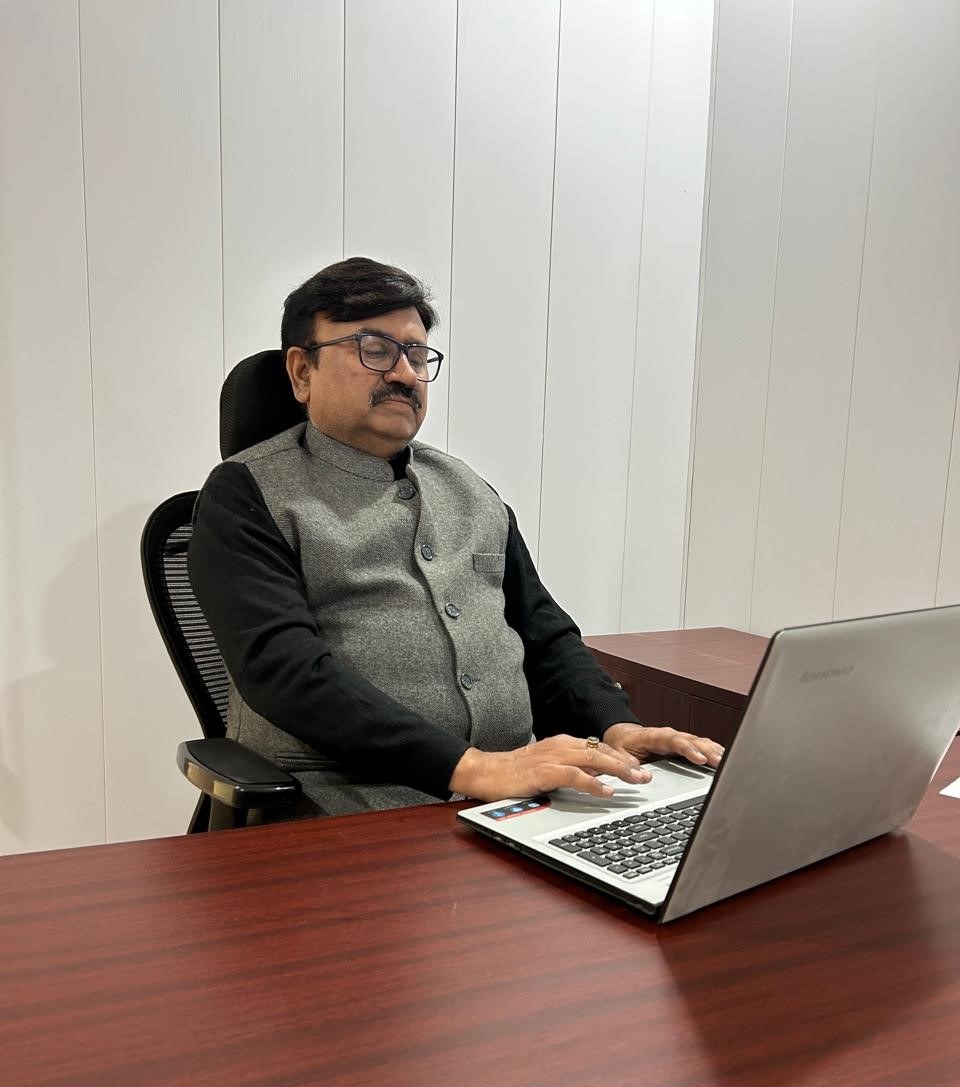
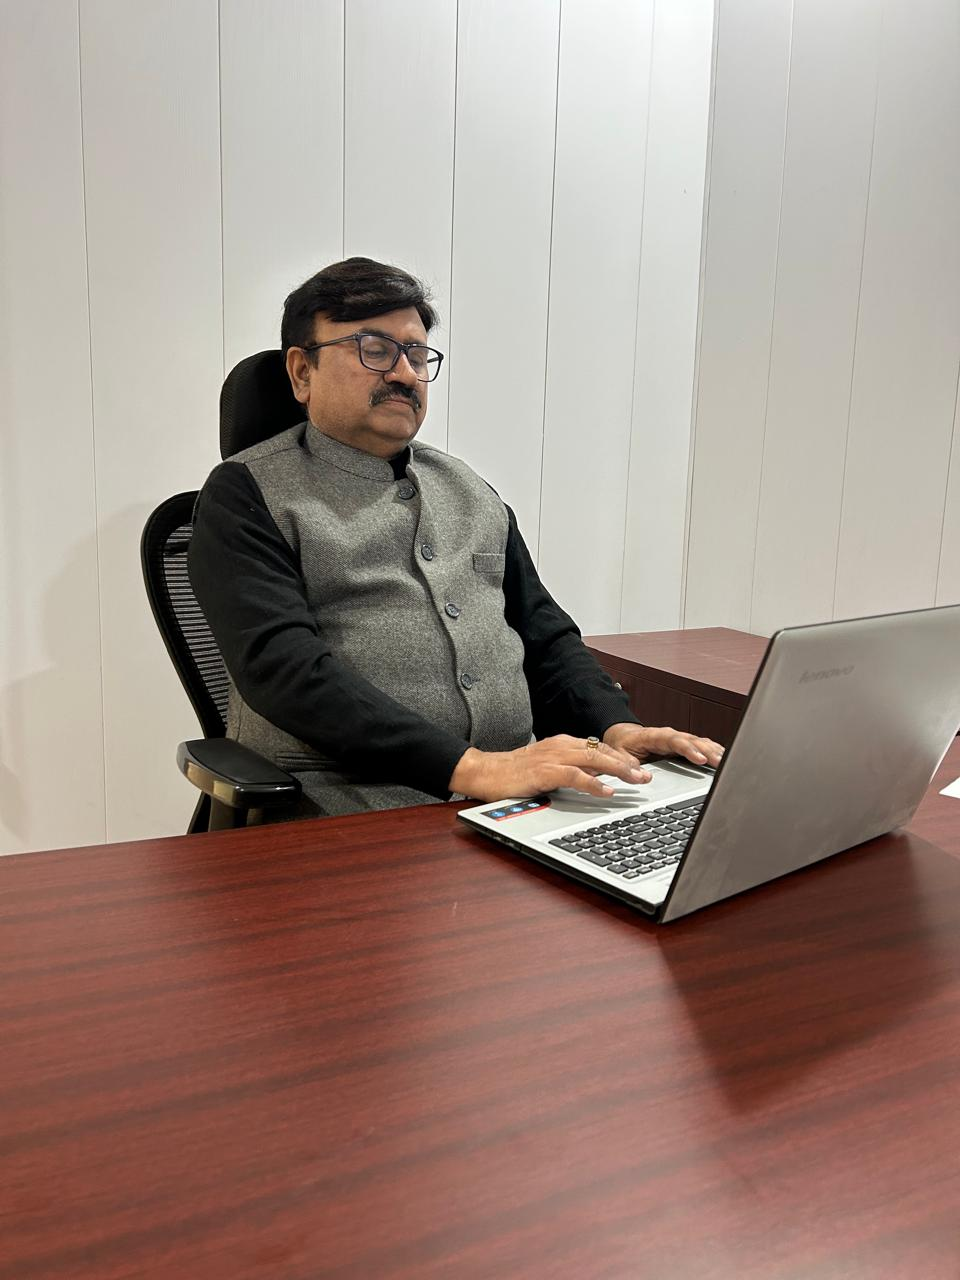
feat: update About Us and Services pages with new images and layout enhancements

diff --git a/src/app/AboutUs/page.jsx b/src/app/AboutUs/page.jsx
@@ -109,14 +109,12 @@ function AboutUs() {
   return (
     <div>
       <div className="px-14 mt-6">
-        <div className="h-full w-full flex flex-col gap-3 items-start lg:pr-12">
-          <h3 className="flex min-h-7 items-center justify-center gap-2 rounded-full px-3.5 pb-px text-sm font-medium md:text-base bg-[#0077b6]/30 text-black">
-            About Us
-          </h3>
-          <h4 className=" text-left text-xl font-medium md:text-3xl w-full mt-4">
+        <div className="h-full w-full flex flex-col gap-3 justify-center items-center">
+          <h3 className="text-4xl font-bold text-black">About Us</h3>
+          <h4 className="text-center text-[#0077B6] text-xl font-medium md:text-3xl w-full mt-4">
             Your Trusted Partner in Respiratory Care Solutions
           </h4>
-          <p className=" w-full text-pretty text-left text-base font- md:text-lg ">
+          <p className=" w-full text-center text-base font- md:text-lg ">
             We{" "}
             <span className="font-semibold text-black">
               SNK Global Consultancy Services
@@ -132,14 +130,67 @@ function AboutUs() {
         </div>
       </div>
 
-      <div className="w-1/2 rounded-lg flex justify-center mt-10">
-        <Image
-          src="/RajeevAnand.jpeg"
-          alt="docTeam"
-          width={500}
-          height={600}
-          className="rounded-lg"
-        ></Image>
+      <div className="w-full py-10 mb-6 px-6 lg:px-14">
+        <h3 className="text-sm font-medium bg-[#0077b6]/30 inline-block px-4 py-1 rounded-full">
+          Our Management
+        </h3>
+        <h2 className="text-3xl md:text-3xl font-medium mt-3 mb-8">
+          Meet Our Leadership Team
+        </h2>
+
+        <div className="flex w-full gap-6">
+          {/* Person 1 */}
+          <div className="w-1/2 flex justify-center">
+            <div className="relative group">
+              <Image
+                src="/RajeevAnand.jpeg"
+                alt="Rajeev Anand"
+                width={400}
+                height={400}
+                className="rounded-lg"
+              />
+
+              {/* Overlay */}
+              <div
+                className="absolute inset-0 rounded-lg 
+                        flex flex-col justify-end p-6
+                        transition-opacity duration-300"
+              >
+                <h3 className="text-white text-2xl font-semibold">
+                  Mr. Rajeev Anand
+                </h3>
+                <p className="text-white/80 text-base">
+                  Founder & Managing Director
+                </p>
+              </div>
+            </div>
+          </div>
+
+          {/* Person 2 */}
+          <div className="w-1/2 flex justify-center">
+            <div className="relative group">
+              <Image
+                src="/RituSharma.jpeg"
+                alt="Ritu Sharma"
+                width={400}
+                height={400}
+                className="rounded-lg"
+              />
+
+              {/* Overlay */}
+              <div
+                className="absolute inset-0 rounded-lg 
+                        flex flex-col justify-end p-6
+                        transition-opacity duration-300"
+              >
+                <h3 className="text-white text-2xl font-semibold">
+                  Mrs. Ritu Sharma
+                </h3>
+                <p className="text-white/80 text-base">Area Sales Manager</p>
+              </div>
+            </div>
+          </div>
+        </div>
       </div>
 
       <div className="flex flex-col lg:flex-row lg:gap-0 lg:px-28 lg:py-12 gap-10 lg:container lg:mx-auto mt-10">
@@ -193,43 +244,6 @@ function AboutUs() {
             />
           ))}
         </div>
-      </div>
-
-      <div className="w-full py-10 mb-6 px-6 lg:px-24">
-        <h3 className="text-sm font-medium bg-[#0077b6]/30 inline-block px-4 py-1 rounded-full">
-          Our Management
-        </h3>
-        <h2 className="text-3xl md:text-3xl font-medium mt-3 mb-8">
-          Meet Our Leadership Team
-        </h2>
-
-        <Swiper
-          modules={[Autoplay]}
-          spaceBetween={30}
-          slidesPerView={1.2}
-          pagination={{ clickable: true }}
-          autoplay={{ delay: 2500 }}
-          breakpoints={{
-            640: { slidesPerView: 2.2 },
-            1024: { slidesPerView: 3.2 },
-          }}
-          className="w-full"
-        >
-          {managementData.map((item, idx) => (
-            <SwiperSlide key={idx}>
-              <div className="bg-white shadow-lg p-6 rounded-2xl border border-gray-200 hover:shadow-xl transition-all duration-300">
-                <div className="h-24 w-24 bg-[#0077b6]/20 rounded-full flex items-center justify-center text-3xl font-bold text-[#0077b6] mx-auto">
-                  {item.name.charAt(0)}
-                </div>
-
-                <h3 className="text-xl font-semibold text-center mt-4">
-                  {item.name}
-                </h3>
-                <p className="text-center text-gray-600">{item.role}</p>
-              </div>
-            </SwiperSlide>
-          ))}
-        </Swiper>
       </div>
     </div>
   );

diff --git a/src/app/Services/page.jsx b/src/app/Services/page.jsx
@@ -12,7 +12,7 @@ export default function Services() {
       <section className="relative flex justify-between items-center h-[200px] lg:h-[390px] w-[90%] rounded-l-2xl ">
         {/* Background Image */}
         <Image
-          src="/services.jpeg"
+          src="/section.jpg"
           alt="sleeping"
           width={900}
           height={700}
@@ -26,7 +26,7 @@ export default function Services() {
         <div className="absolute z-20 px-4 lg:px-8">
           <div className="flex flex-col gap-2 lg:gap-4 text-white">
             <h2 className="text-2xl lg:text-6xl font-semibold">Our Services</h2>
-            <p className="text-sm lg:text-base font-medium w-full lg:max-w-3/5">
+            <p className="text-sm lg:text-base font-medium w-full lg:max-w-2/5">
               At our organisation, we are committed to delivering high-quality
               respiratory care solutions that support better breathing, improved
               sleep health, and enhanced overall well-being.
